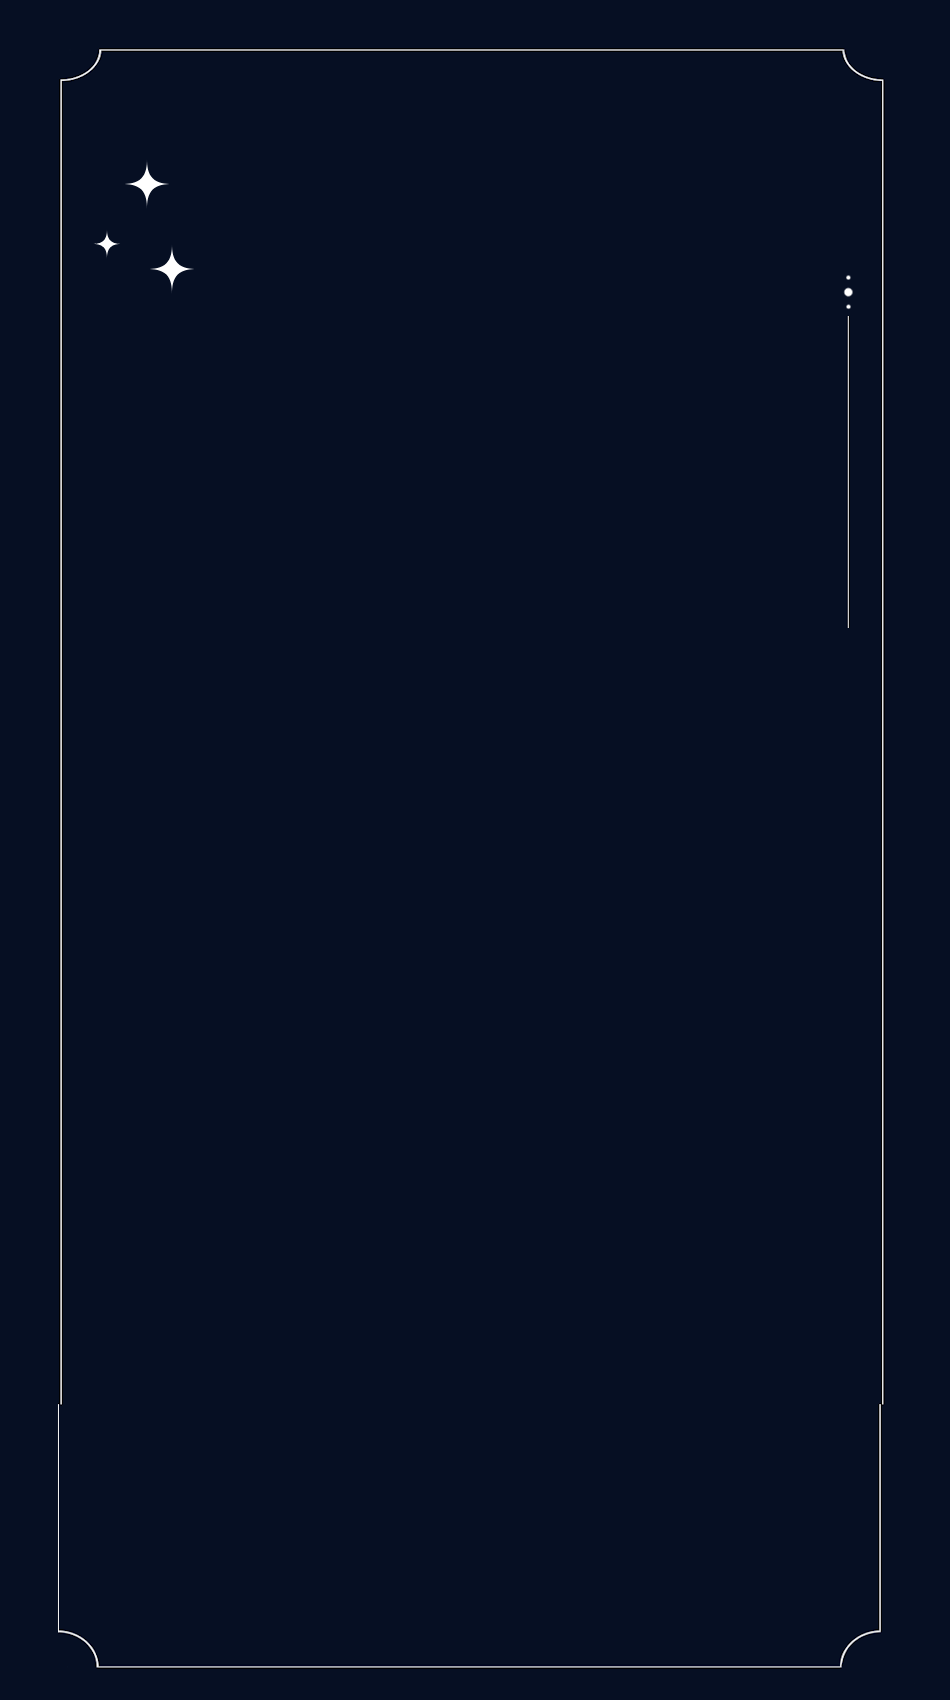
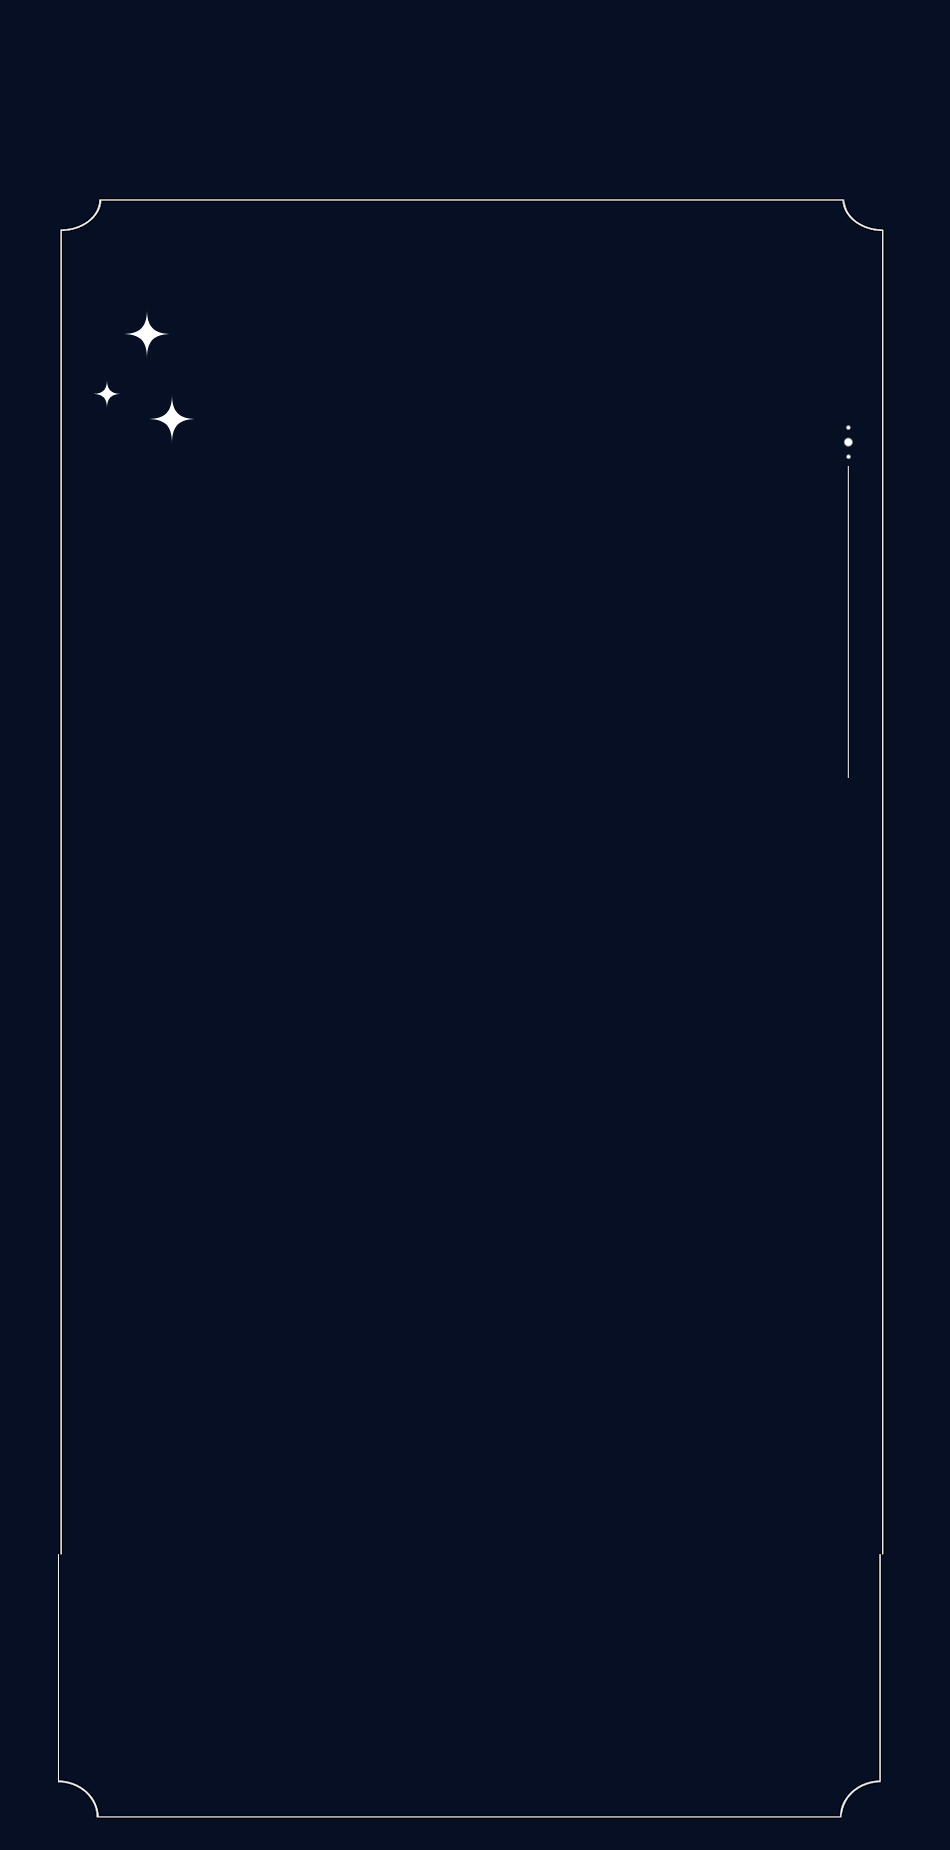
ok things are better but still need more work

diff --git a/src/components/Layout.tsx b/src/components/Layout.tsx
@@ -6,16 +6,19 @@ interface ILayout {
 
 export const Layout: React.FC<ILayout> = ({ children }) => {
   return (
-    <div className="relative w-full min-h-screen text-white bg-[#060e1f]">
+    <div className="relative w-full min-h-screen flex flex-col text-white bg-[#060e1f] scroll-smooth">
       {/* Top Cover Strip */}
-      <div className="absolute top-0 left-0 w-full h-[6rem] z-10 bg-[#060e1f]" />
+      <div className="absolute top-0 left-0 w-full h-[6rem] z-50 bg-[#060e1f]" />
 
       {/* Background layer */}
       <div
-        className="absolute inset-0 z-0 w-full min-h-screen bg-no-repeat bg-top 
+        className="fixed inset-0 z-0 w-full h-full bg-no-repeat bg-top 
                   bg-[length:100%_auto] md:bg-cover 
-                  bg-[url('/background_mobile.png')] md:bg-[url('/background_med.png')] lg:bg-[url('/background.png')]
-                  top-[6rem] md:top-[6rem]"
+                  bg-[url('/background_mobile.png')] 
+                  md:bg-[url('/background_med.png')] 
+                  lg:bg-[url('/background.png')] 
+                  xl:bg-[url('/background_xl.png')] 
+                  bg-fixed pt-[6rem]"
         aria-hidden="true"
       />
 
@@ -24,25 +27,25 @@ export const Layout: React.FC<ILayout> = ({ children }) => {
         <div className="mx-auto max-w-6xl px-6 py-4 border border-white flex justify-center">
           <nav className="flex justify-between items-center w-full text-lg font-serif tracking-wide">
             <div className="flex items-center space-x-2">
-              <NavItem href="/" label="Home" />
+              <NavItem href="#home" label="Home" />
             </div>
             <div className="flex items-center space-x-2">
               <Star />
             </div>
             <div className="flex items-center space-x-2">
-              <NavItem href="/books" label="Books" />
+              <NavItem href="#books" label="Books" />
             </div>
             <div className="flex items-center space-x-2">
               <Star />
             </div>
             <div className="flex items-center space-x-2">
-              <NavItem href="/about" label="About" />
+              <NavItem href="#about" label="About" />
             </div>
             <div className="flex items-center space-x-2">
               <Star />
             </div>
             <div className="flex items-center space-x-2">
-              <NavItem href="/contact" label="Contact" />
+              <NavItem href="#contact" label="Contact" />
             </div>
           </nav>
         </div>
@@ -70,12 +73,11 @@ const NavItem = ({ href, label }: { href: string; label: string }) => {
   const isActive = typeof window !== "undefined" && window.location.pathname === href;
 
   return (
-    <div
-      className={`uppercase ${
-        "text-[#DDDDDD]"
-      } hover:text-[#FFB966] transition-colors duration-200 cursor-pointer`}
+    <a
+      href={href}
+      className="uppercase text-[#DDDDDD] hover:text-[#FFB966] transition-colors duration-200 cursor-pointer no-underline"
     >
       {label}
-    </div>
+    </a>
   );
 };

diff --git a/src/components/BookList.tsx b/src/components/BookList.tsx
@@ -14,13 +14,31 @@ const booklist = [
         ],
         isComingSoon: false,
         link: 'https://amzn.eu/d/9NZzUkf'
+    },
+    {
+        image: '/Kneel.jpg',
+        title: 'Kneel',
+        synopsis: [''],
+        isComingSoon: true,
+    },
+    {
+        image: '/Command.jpg',
+        title: 'Command',
+        synopsis: [''],
+        isComingSoon: true,
+    },
+    {
+        image: '/M&M.jpg',
+        title: 'Of Meloncholy & Moonlight',
+        synopsis: [''],
+        isComingSoon: true,
     }
 ]
 
 export const BookList: React.FC = () => {
   return (
     <section
-      id="book_section"
+      id="books"
       className="pt-32 sm:pt-40 md:pt-56 lg:pt-64 xl:pt-72"
     >
       {booklist.map((book, i) => (

diff --git a/src/components/PageHeader.tsx b/src/components/PageHeader.tsx
@@ -2,7 +2,7 @@ import React from 'react';
 
 export const PageHeader: React.FC = () => {
   return (
-    <header className="w-full text-center py-20 sm:py-28 md:py-36 lg:py-40">
+    <section id="home" className="w-full text-center py-20 sm:py-28 md:py-36 lg:py-40">
       <div className="font-tangerine text-5xl md:text-7xl lg:text-8xl font-serif tracking-wide text-[#FFB966]">
         CJ Nehls
       </div>
@@ -12,6 +12,6 @@ export const PageHeader: React.FC = () => {
       <div className="pt-16 sm:pt-24 md:pt-40 lg:pt-64">
         <img src="/Discover.png" className="block mx-auto max-w-[90%] sm:max-w-xs md:max-w-sm lg:max-w-md" alt="Discover" />
       </div>
-    </header>
+    </section>
   );
 };
